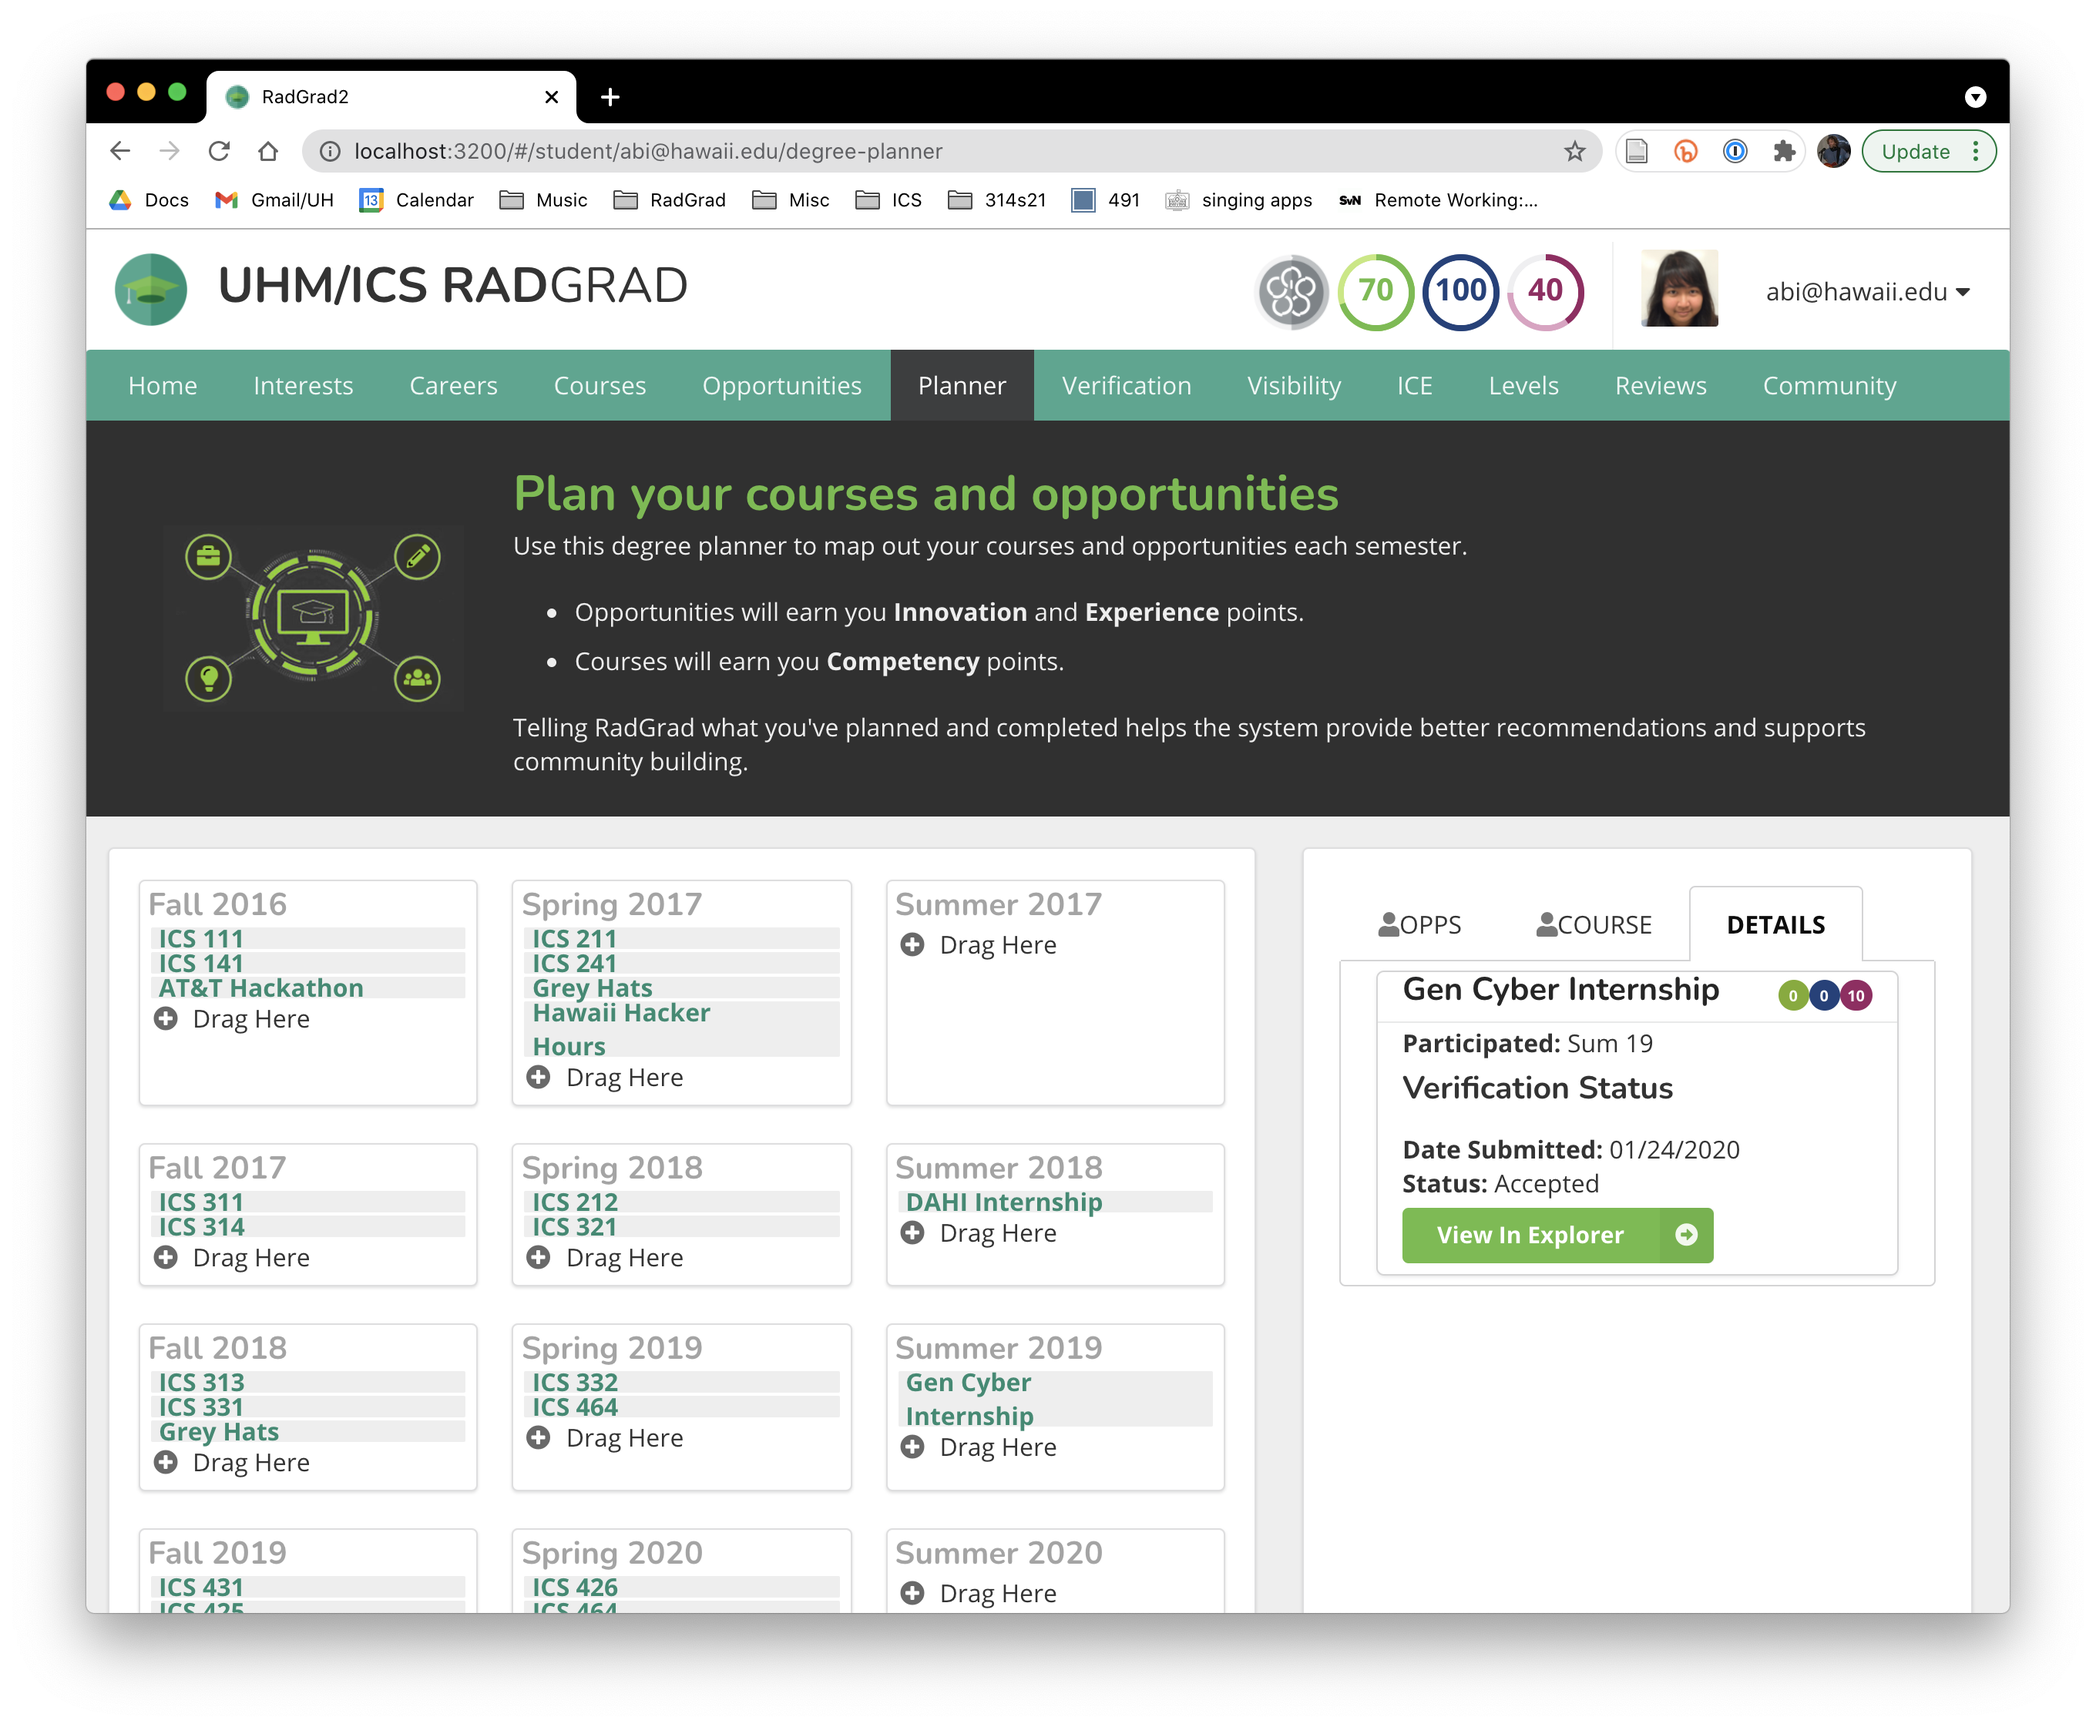
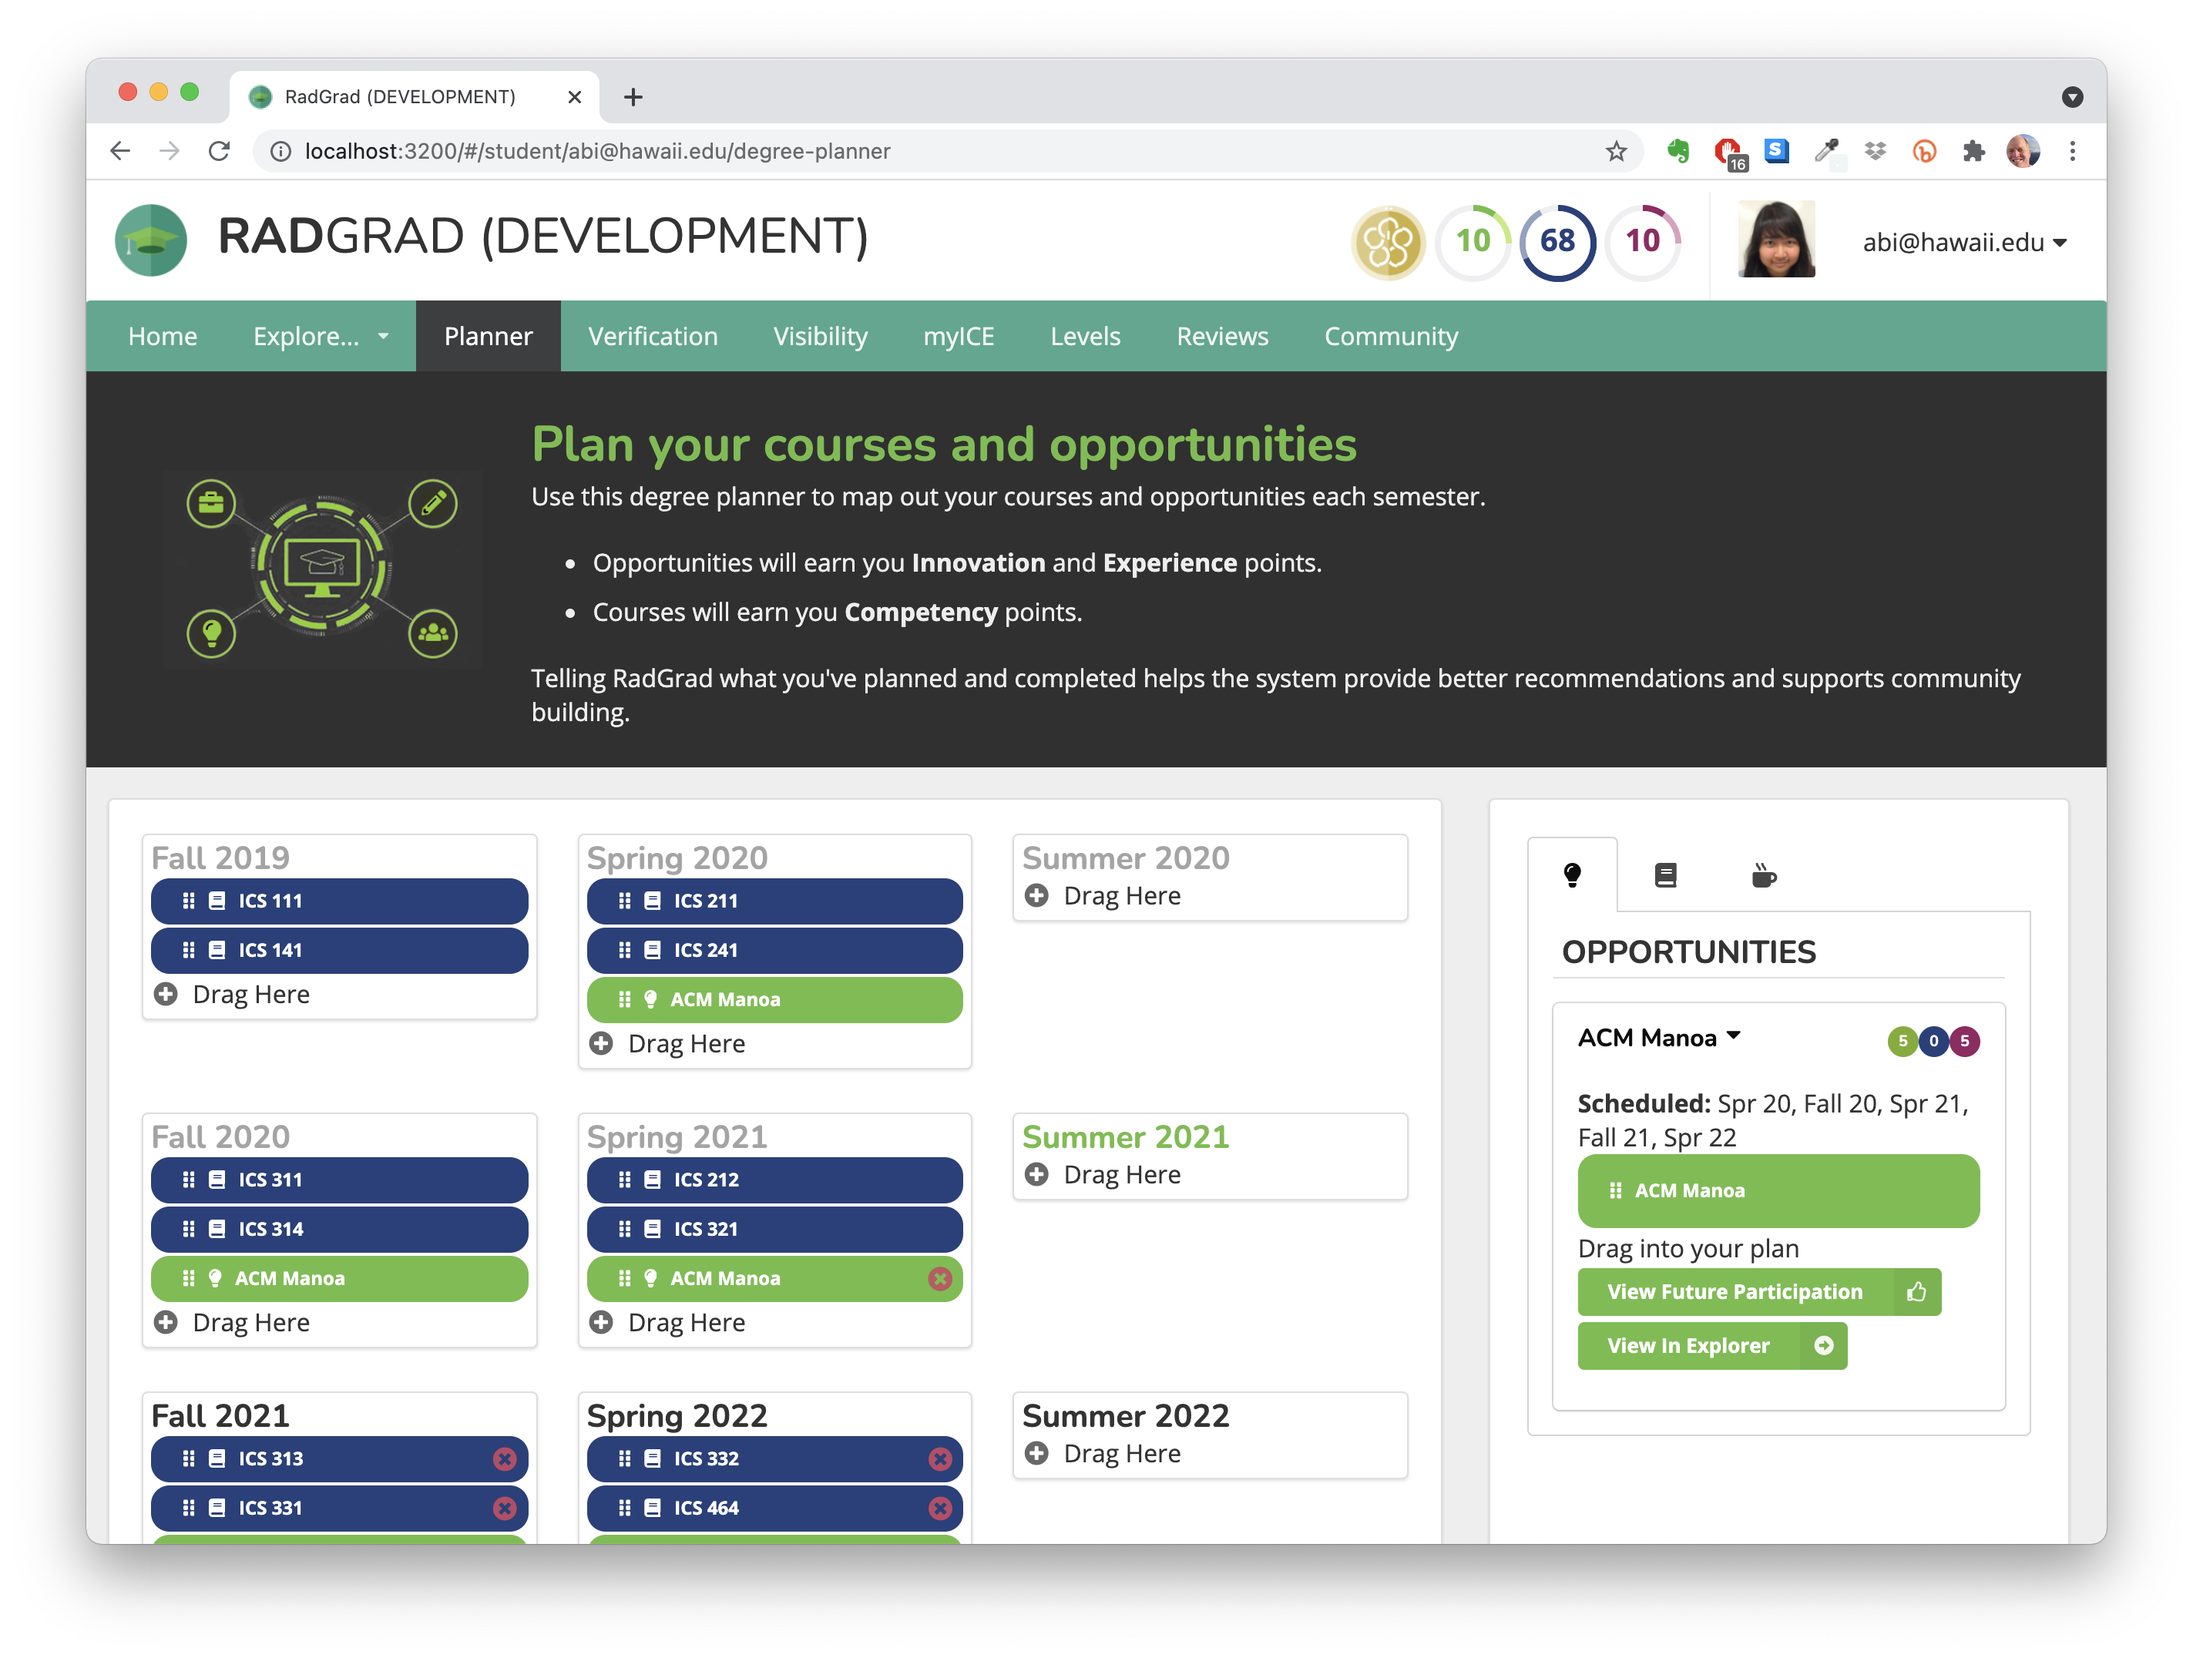
New student walk-through checkpoint

diff --git a/sidebars.js b/sidebars.js
@@ -78,6 +78,8 @@ module.exports = {
           'users/f21/interests',
           'users/f21/careerGoals',
           'users/f21/courses',
+          'users/f21/opportunities',
+          'users/f21/planner',
         ],
       },
     ],

diff --git a/docs/overview/motivation.md b/docs/overview/motivation.md
@@ -13,13 +13,13 @@ The fundamental goal of the RadGrad Project is to provide students, faculty, and
 
 Our alternative perspective is called the **RadGrad Degree Experience**, and it gives first class status to both curricular activities (courses) and extracurricular activities (discipline-oriented events, activities, clubs, etc.)
 
-To establish the first class status of extracurricular activities, the Degree Experience perspective replaces GPA as the single metric for success with a three component metric called **ICE** that assesses student development with respect to Innovation, Competency, and Experience.  Each student's Degree Experience also includes a representation of their disciplinary interests and career goals that helps them assess the relevance of potential curricular and extracurricular activities.  Finally, the Degree Experience perspective is voluntary. It complements but does not change any existing undergraduate degree requirements of a university.
+To establish the first class status of extracurricular activities, the Degree Experience perspective replaces GPA as the single metric for success with a three component metric called **myICE** that assesses student development with respect to Innovation, Competency, and Experience.  Each student's Degree Experience also includes a representation of their disciplinary interests and career goals that helps them assess the relevance of potential curricular and extracurricular activities.  Finally, the Degree Experience perspective is voluntary. It complements but does not change any existing undergraduate degree requirements of a university.
 
-![ICE](/img/overview/ice-example.png)
+![myICE](/img/overview/ice-example.png)
 
 Research on improving diversity in STEM indicates that a "barrier to entry" is an overly narrow view of STEM application areas and people. To combat this, RadGrad provides students with a faculty-curated knowledge base of discipline-specific "Interests" and "Career Goals", as well as which curricular and extra-curricular activities will help students learn more about them.
 
-![ICE](/img/overview/career-goals-explorer-data-scientist.png)
+![myICE](/img/overview/career-goals-explorer-data-scientist.png)
 
 The design of RadGrad is influenced by research on diversity, retention and two educational research theories:  Individualized Learning Plans (ILP) and Communities of Practice (CoP).  ILPs help students connect their current studies to their future career goals. CoP identifies the importance of practitioner networks for both formal and informal learning.
 

diff --git a/docs/users/f21/overview.md b/docs/users/f21/overview.md
@@ -5,11 +5,17 @@ sidebar_label: Overview
 
 This chapter provides a brief introduction and guided tour of RadGrad for new students.
 
+The fundamental goal of the RadGrad Project is to provide students, faculty, and advisors with an alternative perspective on the undergraduate degree program---which traditionally boils down to a single kind of activity (coursework) and a single metric for success (grade point average).
+
+Our alternative perspective is called the **RadGrad Degree Experience**, and it gives first class status to both curricular activities (courses) and extracurricular activities (discipline-oriented events, activities, clubs, etc.)
+
+To establish the first class status of extracurricular activities, the Degree Experience perspective replaces GPA as the single metric for success with a three component metric called **myICE** that assesses student development with respect to Innovation, Competency, and Experience.  Each student's Degree Experience also includes a representation of their disciplinary interests and career goals that helps them assess the relevance of potential curricular and extracurricular activities.  Finally, the Degree Experience perspective is voluntary. It complements but does not change any existing undergraduate degree requirements of a university.
+
 :::tip RadGrad walk-through
 This chapter is best used "interactively": please login to https://radgrad2.ics.hawaii.edu. RadGrad uses the UH CAS login system.
 
 Explore the system as you read through the accompanying pages. The screenshots are just examples and there are additional features you can discover by interacting with the system.
 
-The next 10 pages take you through the major features of RadGrad from the student perspective. The last half dozen pages will show you the additional features available to Faculty and Advisors. To understand the capabilities of Faculty and Advisors, it's best that you first be familiar with the system from the student's point of view.
+The next 10 pages take you through the major features of RadGrad from the student perspective.
 :::
 

diff --git a/docs/users/f21/planner.md b/docs/users/f21/planner.md
@@ -1,0 +1,28 @@
+---
+title: Degree Experience Planner
+sidebar_label: Planner
+---
+
+The degree experience planner allows you to plan your four year undergraduate experience.
+
+Here's George's planner:
+
+![DEP](/img/user-guide/f21/degree-experience-planner1.png)
+ If, like George, you don't have four years, click the `Add Year` button to add academic years to your plan.
+![DEP](/img/user-guide/f21/degree-experience-planner2.png)
+The right-hand box has three tabs, opportunities (light bulb), courses (book), and Internships (coming soon). These tabs show the opportunities and courses in your profile.
+
+Let's start with Opportunities. Click on an opportunity to open it up.
+![DEP](/img/user-guide/f21/acm-manoa-open.png)
+You can drag the green pill ![Pill](/img/user-guide/f21/opportunity-pill.png)
+
+Add you add opportunities to your plan your **myICE** points update. You can see your **myICE** points in the header.
+![myICE](/img/user-guide/f21/myICE-points.png)
+The number in the center is earned value the circle on the outside shows how many points you've planned.
+
+Here's a view of George's plan after he's dragged several opportunities into his plan.
+![DEP](/img/user-guide/f21/degree-experience-planner3.png)
+Now let's work on courses. Click on the Courses (book) tab.
+![DEP](/img/user-guide/f21/degree-experience-planner4.png)
+Drag the blue course pill into the semester you plan on taking the course. You should probably only plan on taking 2 or 3 ICS courses per semester. When you drop the course in a semester it is removed from the choices on the right.
+![DEP](/img/user-guide/f21/degree-experience-planner5.png)

diff --git a/docs/overview/basic-constructs.md b/docs/overview/basic-constructs.md
@@ -68,9 +68,9 @@ Here is an example degree plan page:
 
 RadGrad provides a mechanism to upload data on completed courses that can be extracted from institutional databases by qualified faculty and advisors.  This means that students do not have to manage the status of their previous courses: RadGrad can be updated each semester with this information to maintain accuracy. Only courses directly related to the degree program are tracked in RadGrad.
 
-## ICE
+## myICE
 
-ICE is a three component measure to track both progress and success within the degree program.  ICE is an acronym for its constituent measures, which are named Innovation, Competency, and Experience.  To be a well-prepared computer science graduate according to RadGrad, students must earn 100 I, C, and E points by the end of their degree program.
+myICE is a three component measure to track both progress and success within the degree program.  myICE is an acronym for its constituent measures, which are named Innovation, Competency, and Experience.  To be a well-prepared computer science graduate according to RadGrad, students must earn 100 I, C, and E points by the end of their degree program.
 
 Typically, a student earns Competency points for completing Courses, and Innovation and Experience points for completing Opportunities. RadGrad admins are responsible for assigning the number of points earned for a given Course or Opportunity. For example, a student might earn 10 points for completing a course with a passing grade.  For Opportunities, a student might earn 15 Innovation points for a weekend hackathon, and 25 points for a summer-long internship.
 

diff --git a/docs/users/f21/opportunities.md b/docs/users/f21/opportunities.md
@@ -1,0 +1,39 @@
+---
+title: Opportunities Explorer
+sidebar_label: Opportunities
+---
+Currently, RadGrad has over 50 opportunities. Opportunities represent extra-curricular activities that help a student progress toward one or more Career Goals and/or learn more about a specific Interest. The set of Opportunities are "curated" by faculty members to ensure quality and relevance.
+
+![](/img/user-guide/f21/opportunities-explorer.png)
+
+You can filter, sort, and search opportunities.
+
+The most useful sort is by recommended. RadGrad will sort all the opportunities based your profile interests.
+
+Here's George's recommended opportunities.
+
+![](/img/user-guide/f21/recommended-opportunities.png)
+
+The opportunity details page shows additional information about the opportunity.
+
+![](/img/user-guide/f21/opportunity-details-page.png)
+![](/img/user-guide/f21/opportunity-details-page2.png)
+
+The left-hand column shows related
+
+* Interests
+* Career Goals
+* Courses
+
+The right-hand column shows more details about the opportunity, the student participation by semester, and student reviews of the opportunity.
+
+:::tip RadGrad walk-through
+It's worth spending some time on the Opportunity Explorer. Read through the different Opportunities. If it is interesting to you click the Add to Profile button.
+
+Add a few opportunities to your profile.
+<hr/>
+(Problems with this page? Email radgrad@hawaii.edu to let us know.)
+:::
+
+Now that we've filled out our profile, at least for now. Let's take a look at the Degree Experience Planner. Click on the `Planner` menu item.
+

diff --git a/docs/users/f21/courses.md b/docs/users/f21/courses.md
@@ -3,7 +3,9 @@ title: Courses Explorer
 sidebar_label: Courses
 ---
 
-Currently, RadGrad has 106 courses related to Computer Science. All RadGrad Explorers have a common look and feel.
+Currently, RadGrad has 106 courses related to Computer Science. Courses represent the curricular activities associated with the undergraduate academic unit.
+
+All RadGrad Explorers have a common look and feel.
 
 ![](/img/user-guide/f21/courses-explorer.png)
 
@@ -26,3 +28,11 @@ The left-hand column shows related
 * Opportunities
 
 The right-hand column shows more details about the course, the student participation by semester, and student reviews of the course.
+
+:::tip RadGrad walk-through
+It's worth spending some time on the Course Explorer. Read through the different Courses. If it is interesting to you click the Add to Profile button. 
+
+Add the core ICS courses to your profile.
+<hr/>
+(Problems with this page? Email radgrad@hawaii.edu to let us know.)
+:::

diff --git a/docs/users/f21/careerGoals.md b/docs/users/f21/careerGoals.md
@@ -3,7 +3,9 @@ title: Career Goals Explorer
 sidebar_label: Career Goals
 ---
 
-Currently, RadGrad has 20 different career goals related to Computer Science. The Career Goals Explorer looks very similar to the Interests Explorer.
+Currently, RadGrad has 20 different career goals related to Computer Science. Career Goals represent professional outcomes that a student can pursue through the degree experience.
+
+The Career Goals Explorer looks very similar to the Interests Explorer.
 
 ![](/img/user-guide/f21/career-goals-explorer.png)
 

diff --git a/docs/users/f21/interests.md b/docs/users/f21/interests.md
@@ -3,7 +3,7 @@ title: Interests Explorer
 sidebar_label: Interests
 ---
 
-Currently, RadGrad has 78 different interests related to Computer Science.
+Currently, RadGrad has 78 different interests related to Computer Science. Interests represent a set of discipline-specific topics relevant to the degree experience. Adding interests to your profile helps RadGrad make better recommendations.
 
 ![](/img/user-guide/f21/interests-explorer-page.png)
 
